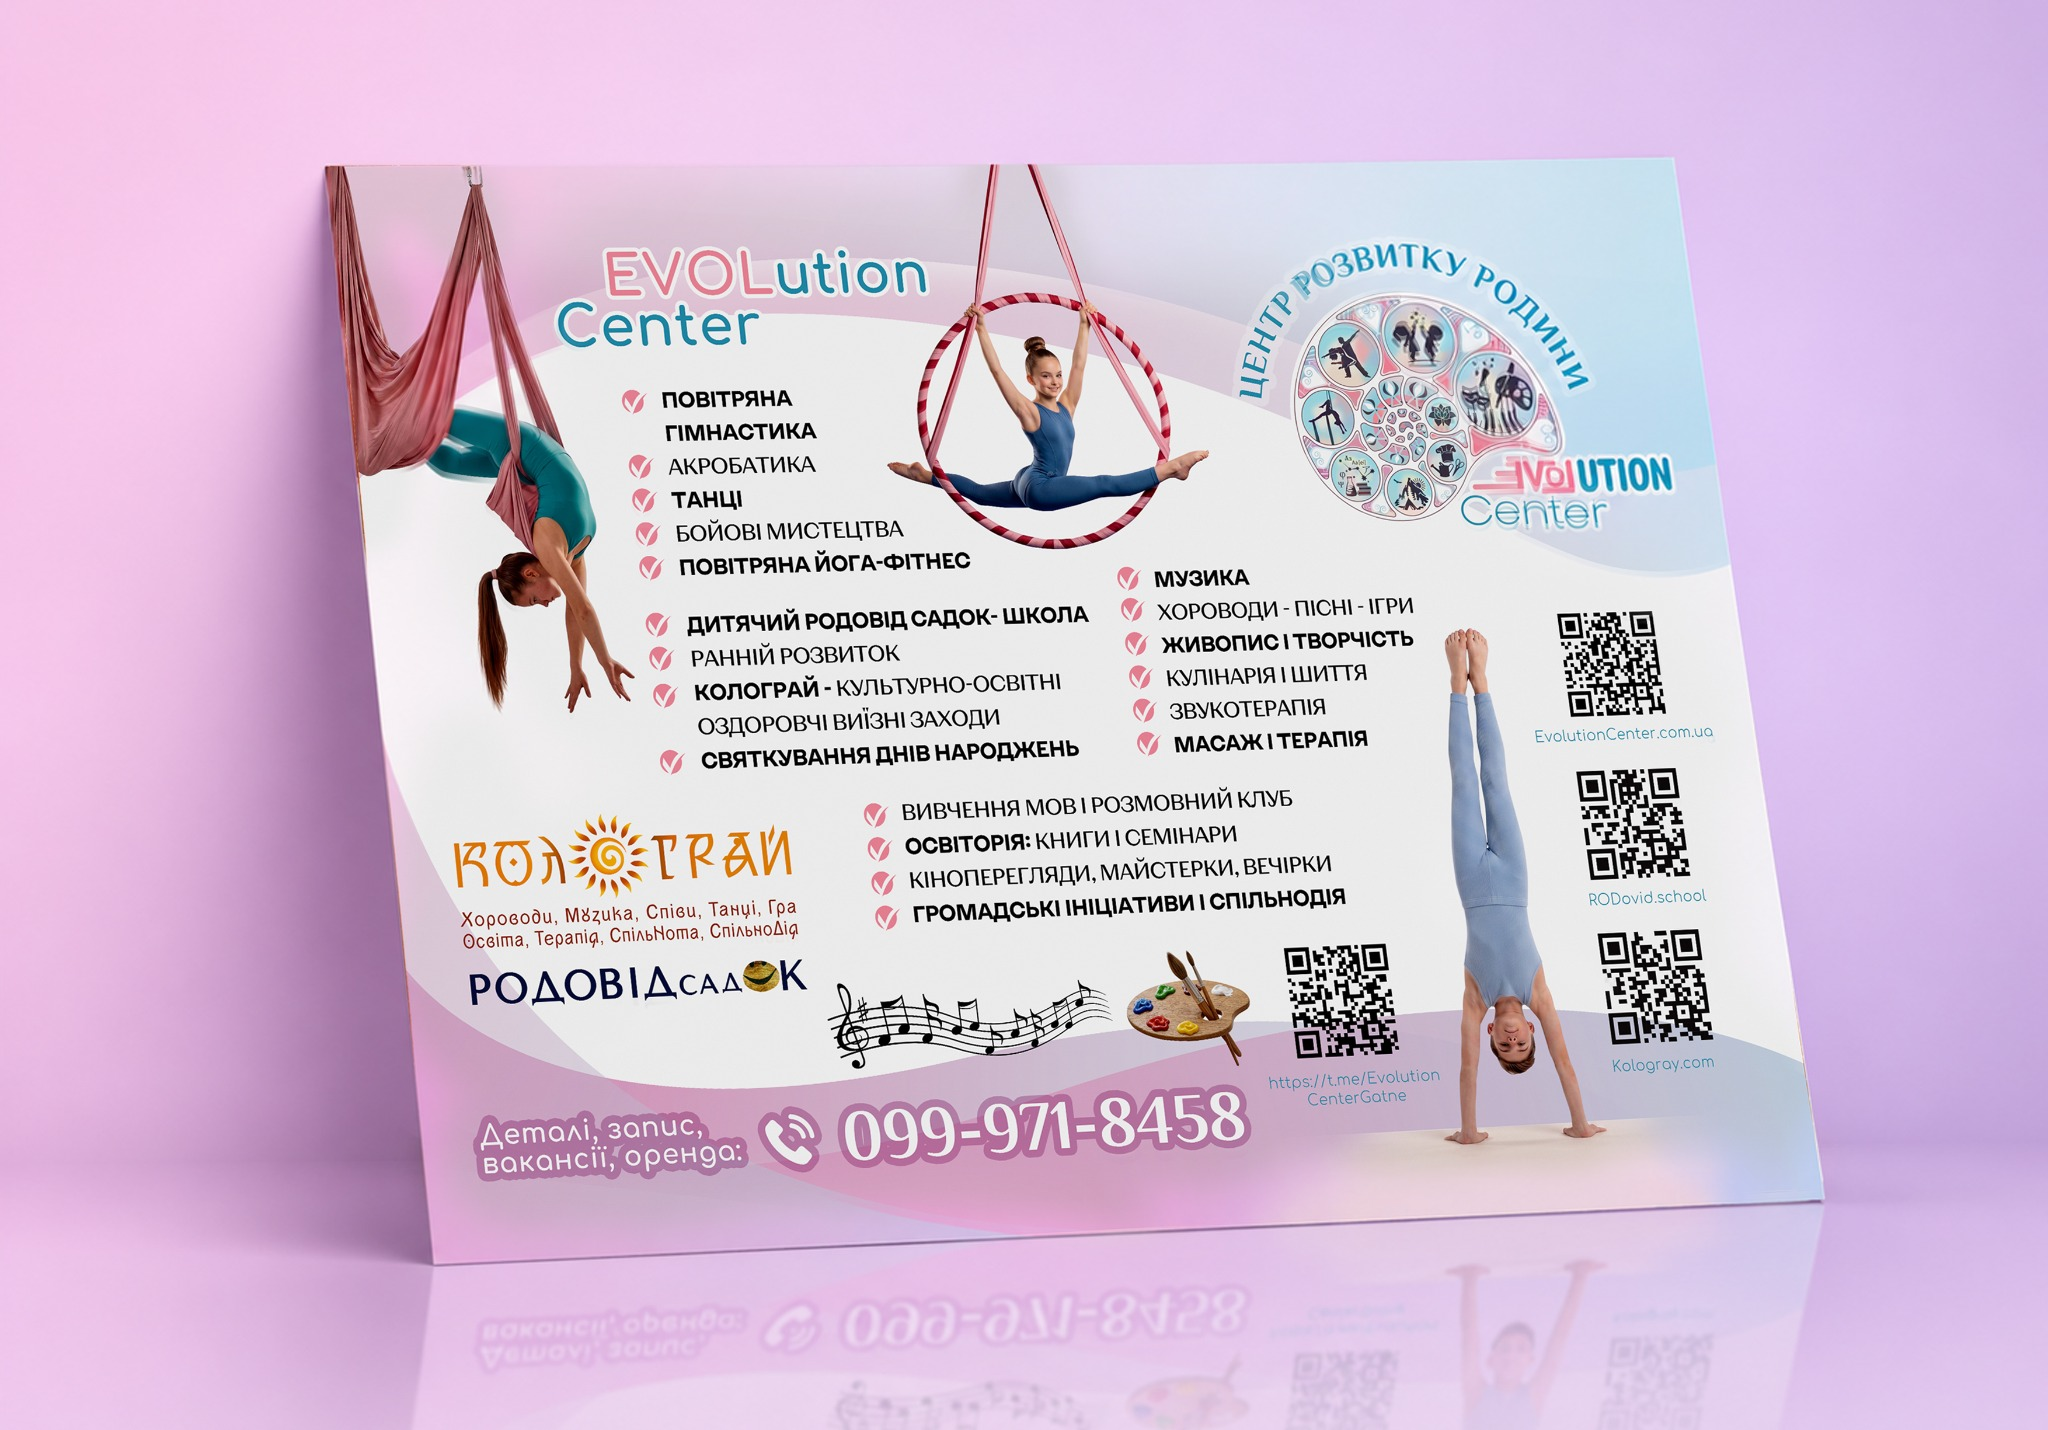
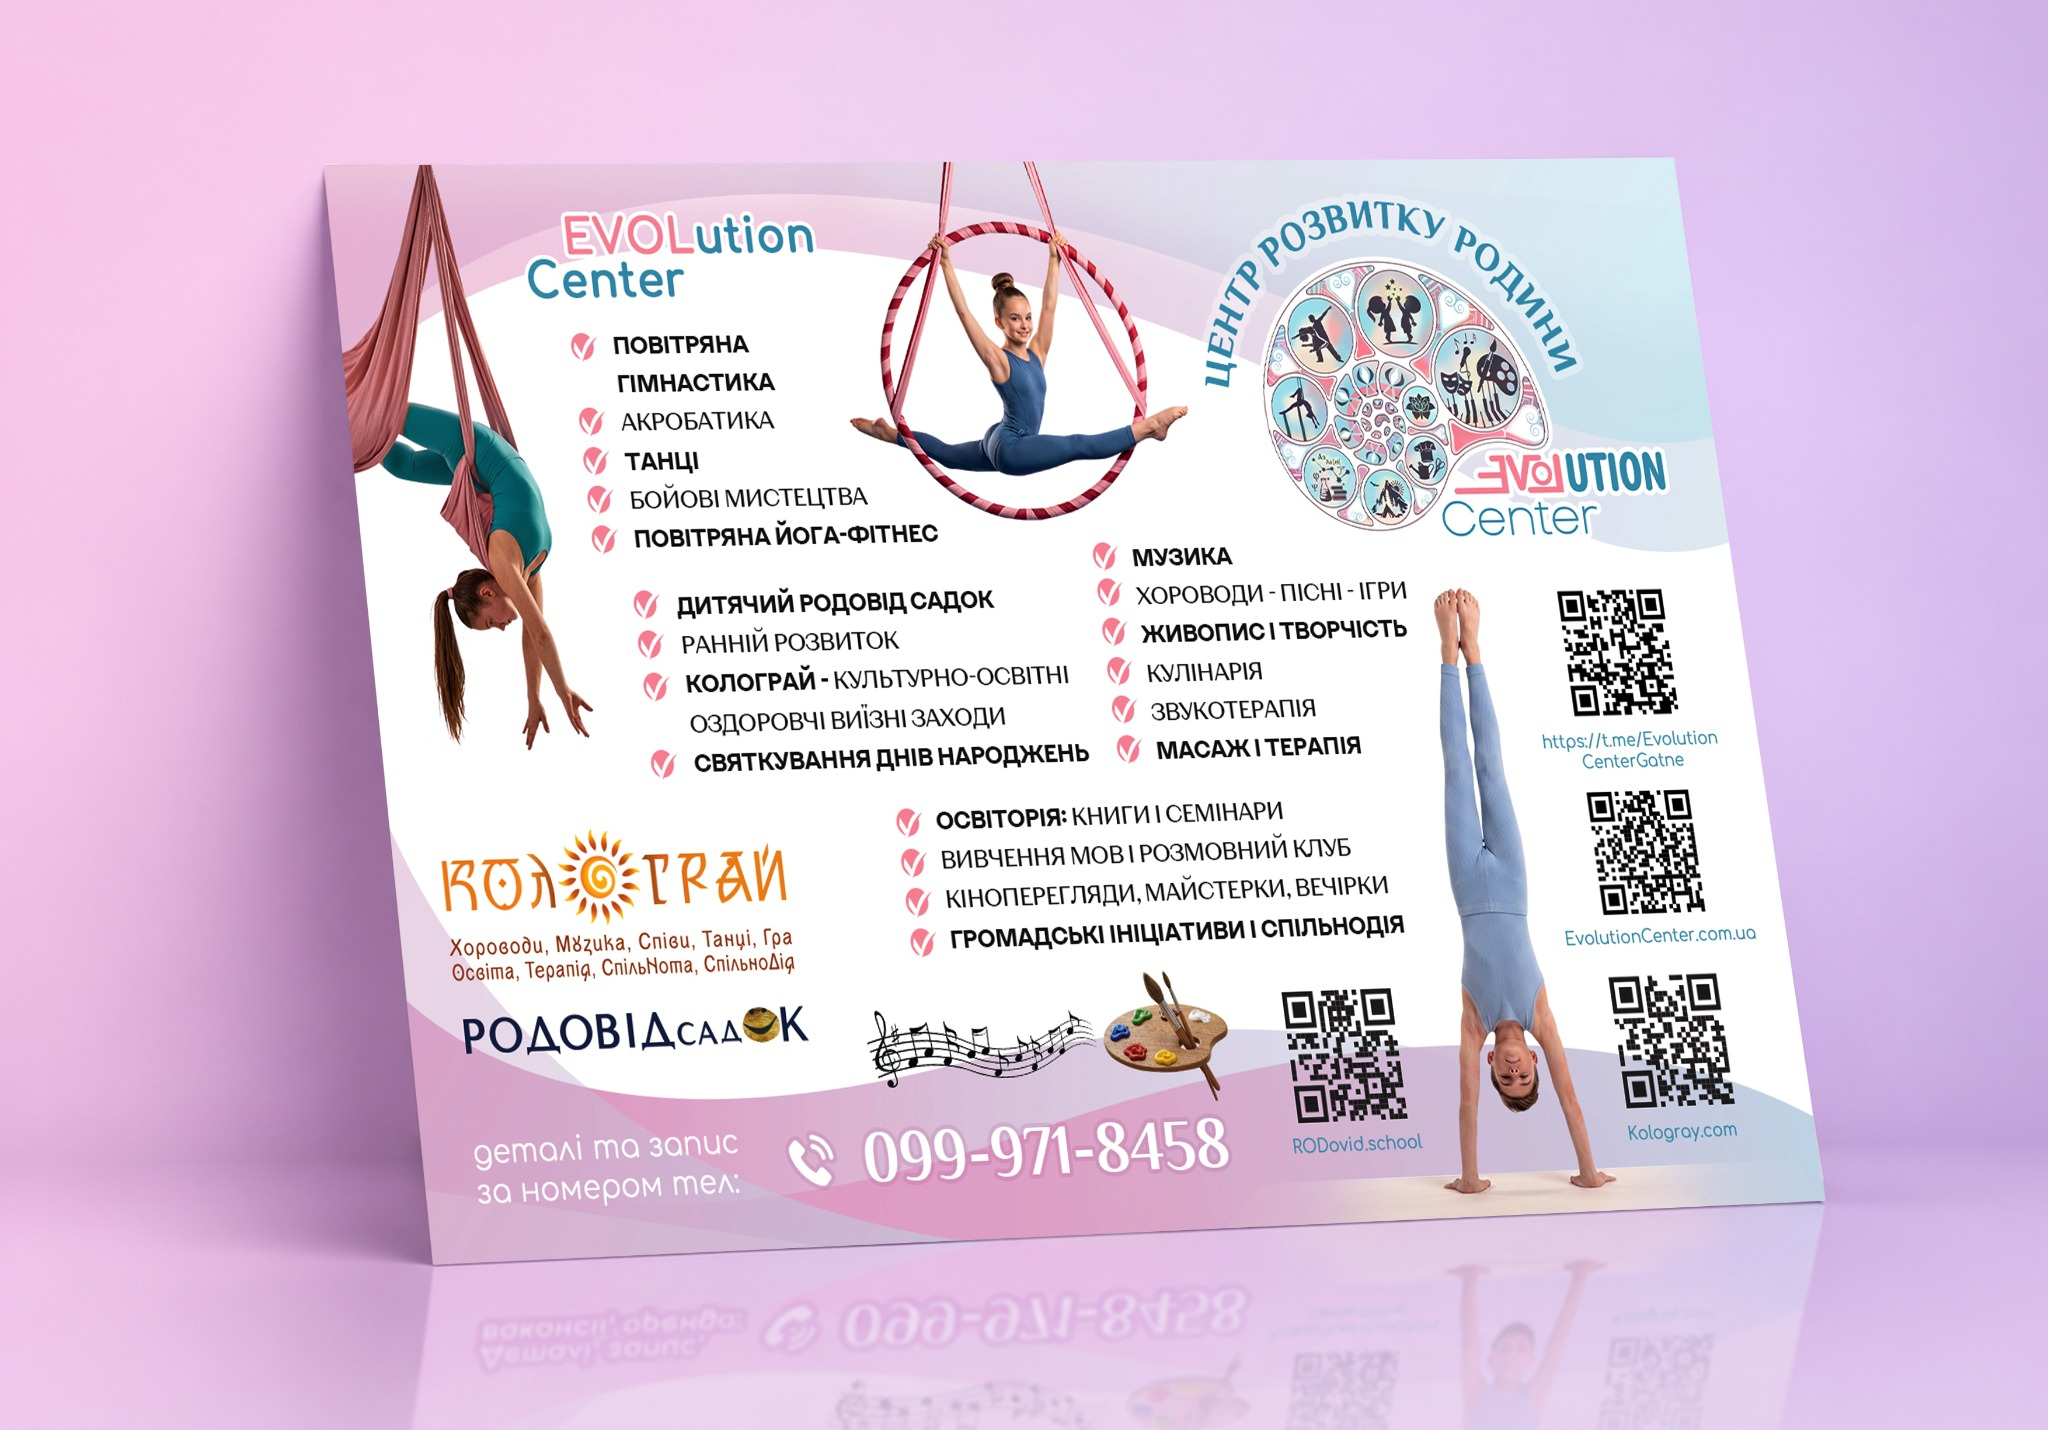
Update Evolution Center gallery image with latest supplied photo

Changed region(s): [[0.1562, 0.1231, 0.9062, 0.8615], [0.4688, 0.8615, 0.5, 0.8923]]

diff --git a/index.html b/index.html
@@ -298,7 +298,7 @@
       {name:"Skin rituals",category:"Косметичний брендинг",label:"Soft Skin",type:"tube",a:"#f5ddca",b:"#dbb8bd",text:"#785d56"},
       {name:"Mineral water",category:"Рекламні банери",label:"Flow",type:"orb",a:"#d0e5e4",b:"#e9ceea",text:"#2e6b73"},
       {name:"Лого Natural Farm",category:"Логотип · брендинг",type:"photo",image:"assets/natural-farm/natural-farm-cover-square.jpg",coverContain:true,naturalFarmGallery:[{src:"assets/natural-farm/natural-farm-logo.jpg",alt:"Логотип Natural Farm"},{src:"assets/natural-farm/natural-farm-tshirt.jpg",alt:"Футболка та коробочка з логотипом Natural Farm"},{src:"assets/natural-farm/natural-farm-bag.jpg",alt:"Жінка з пакетом Natural Farm"}]},
-      {name:"Print Design",category:"Поліграфія · листівки та буклети",image:"assets/print-design/print-design-cover.webp",label:"Forme",type:"ribbon",a:"#f4d9e4",b:"#c89ab7",text:"#6e3d58",printGallery:[{src:"assets/print-design/impulse-flyers.webp",alt:"Impulse — рекламні листівки магазинів електроніки"},{src:"assets/print-design/green-lighthouse.webp",alt:"Зелений Ліхтарик — природничо-пізнавальна листівка"},{src:"assets/print-design/electrocaprizam-trifold.webp",alt:"Інформаційний тристулковий буклет про стабілізатори"},{src:"assets/print-design/evolution-center-updated.jpg",alt:"Evolution Center — рекламна листівка освітнього центру"}]},
+      {name:"Print Design",category:"Поліграфія · листівки та буклети",image:"assets/print-design/print-design-cover.webp",label:"Forme",type:"ribbon",a:"#f4d9e4",b:"#c89ab7",text:"#6e3d58",printGallery:[{src:"assets/print-design/impulse-flyers.webp",alt:"Impulse — рекламні листівки магазинів електроніки"},{src:"assets/print-design/green-lighthouse.webp",alt:"Зелений Ліхтарик — природничо-пізнавальна листівка"},{src:"assets/print-design/electrocaprizam-trifold.webp",alt:"Інформаційний тристулковий буклет про стабілізатори"},{src:"assets/print-design/evolution-center-updated.jpg?v=replace-20261117b",alt:"Evolution Center — рекламна листівка освітнього центру"}]},
       {name:"Beauty & Cosmetics",category:"Рекламні банери · косметика",image:"assets/cosmetics-banners/beauty-cover.jpg",label:"Slow Days",type:"can",a:"#ecc6a8",b:"#f4d9dc",text:"#784839",vimeoId:"339643732",vimeoHash:"ffca300aad",beautyBanners:["assets/cosmetics-banners/ahava.webp","assets/cosmetics-banners/biotherm.webp","assets/cosmetics-banners/hair-cosmetics.webp","assets/cosmetics-banners/justin-parfums.webp","assets/cosmetics-banners/basic-care.webp","assets/cosmetics-banners/luxury-cosmetics.webp","assets/cosmetics-banners/mens-grooming.webp","assets/cosmetics-banners/newborn-care.webp","assets/cosmetics-banners/spring-perfumes.webp","assets/cosmetics-banners/clean-week.webp"]},
       {name:"Машинна вишивка",category:"Розробка дизайнів",label:"",type:"photo",image:"assets/machine-embroidery.webp?v=cover-20261117",hideCaption:false,gallery:["assets/embroidery-gallery-01.webp","assets/embroidery-gallery-02.webp","assets/embroidery-gallery-03.webp","assets/embroidery-gallery-04.webp","assets/embroidery-gallery-05.webp"]}
     ];
